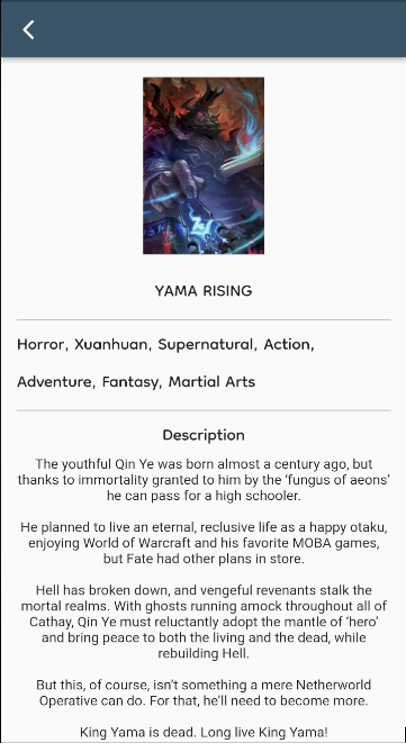
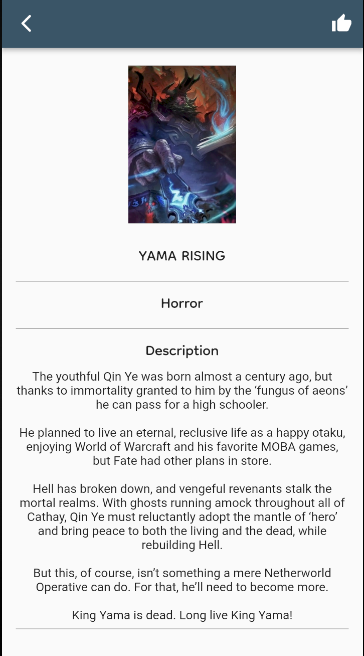
adding like on detail screen

diff --git a/banku/lib/screen/home/detail_screen.dart b/banku/lib/screen/home/detail_screen.dart
@@ -25,7 +25,14 @@ class _DetailNovelState extends State<DetailNovel> {
         onPressed: (){
           Navigator.pop(context);
         },
-        )
+        ),
+        actions: [
+          IconButton(
+            onPressed: (){},
+            icon: const Icon(Icons.thumb_up)
+          ),
+        ],
+        
         
       ),
       body: SafeArea(
